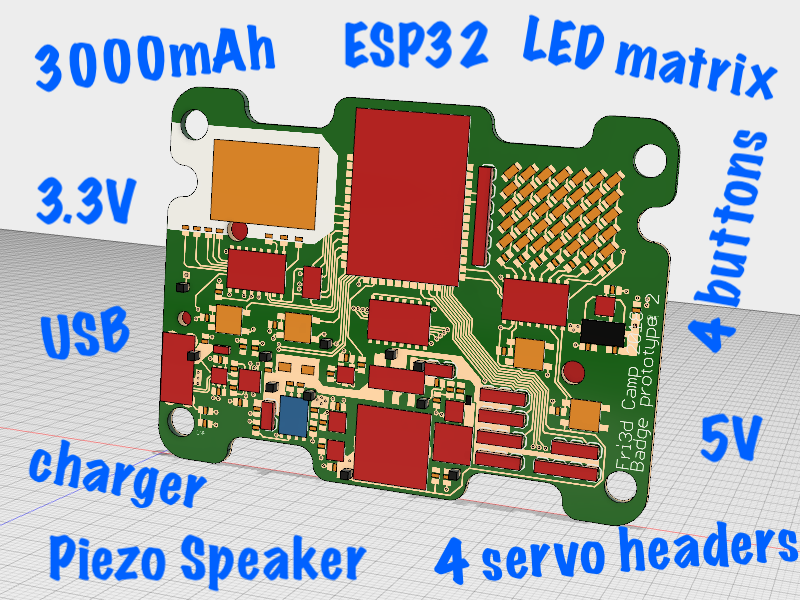
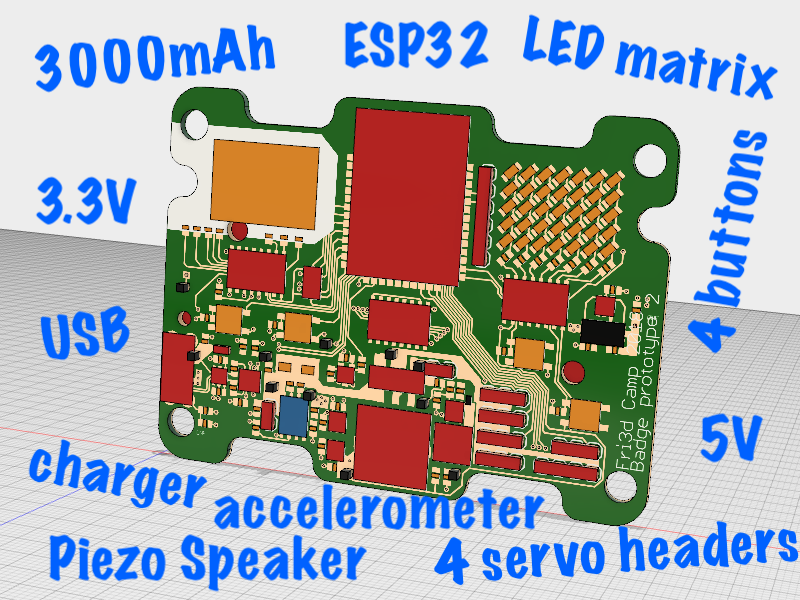
added missing accelerometer

Changed region(s): [[0.25, 0.81, 0.6875, 0.9]]

diff --git a/_posts/2018-02-20-meet-fri3d-badge-2018.html b/_posts/2018-02-20-meet-fri3d-badge-2018.html
@@ -51,6 +51,9 @@
     <strong>3.3V</strong> voeding voor de MCU en overige componenten, maar ook
     geüpgraded naar <strong>5V</strong> voor andere externe componenten, zoals
     bvb. servo's of sensoren.</li>
+    
+    <li>Een <strong>accelerometer</strong> zorgt alvast voor leuke
+    mogelijkheden met beweging.</li>
 
   </ul>
   
